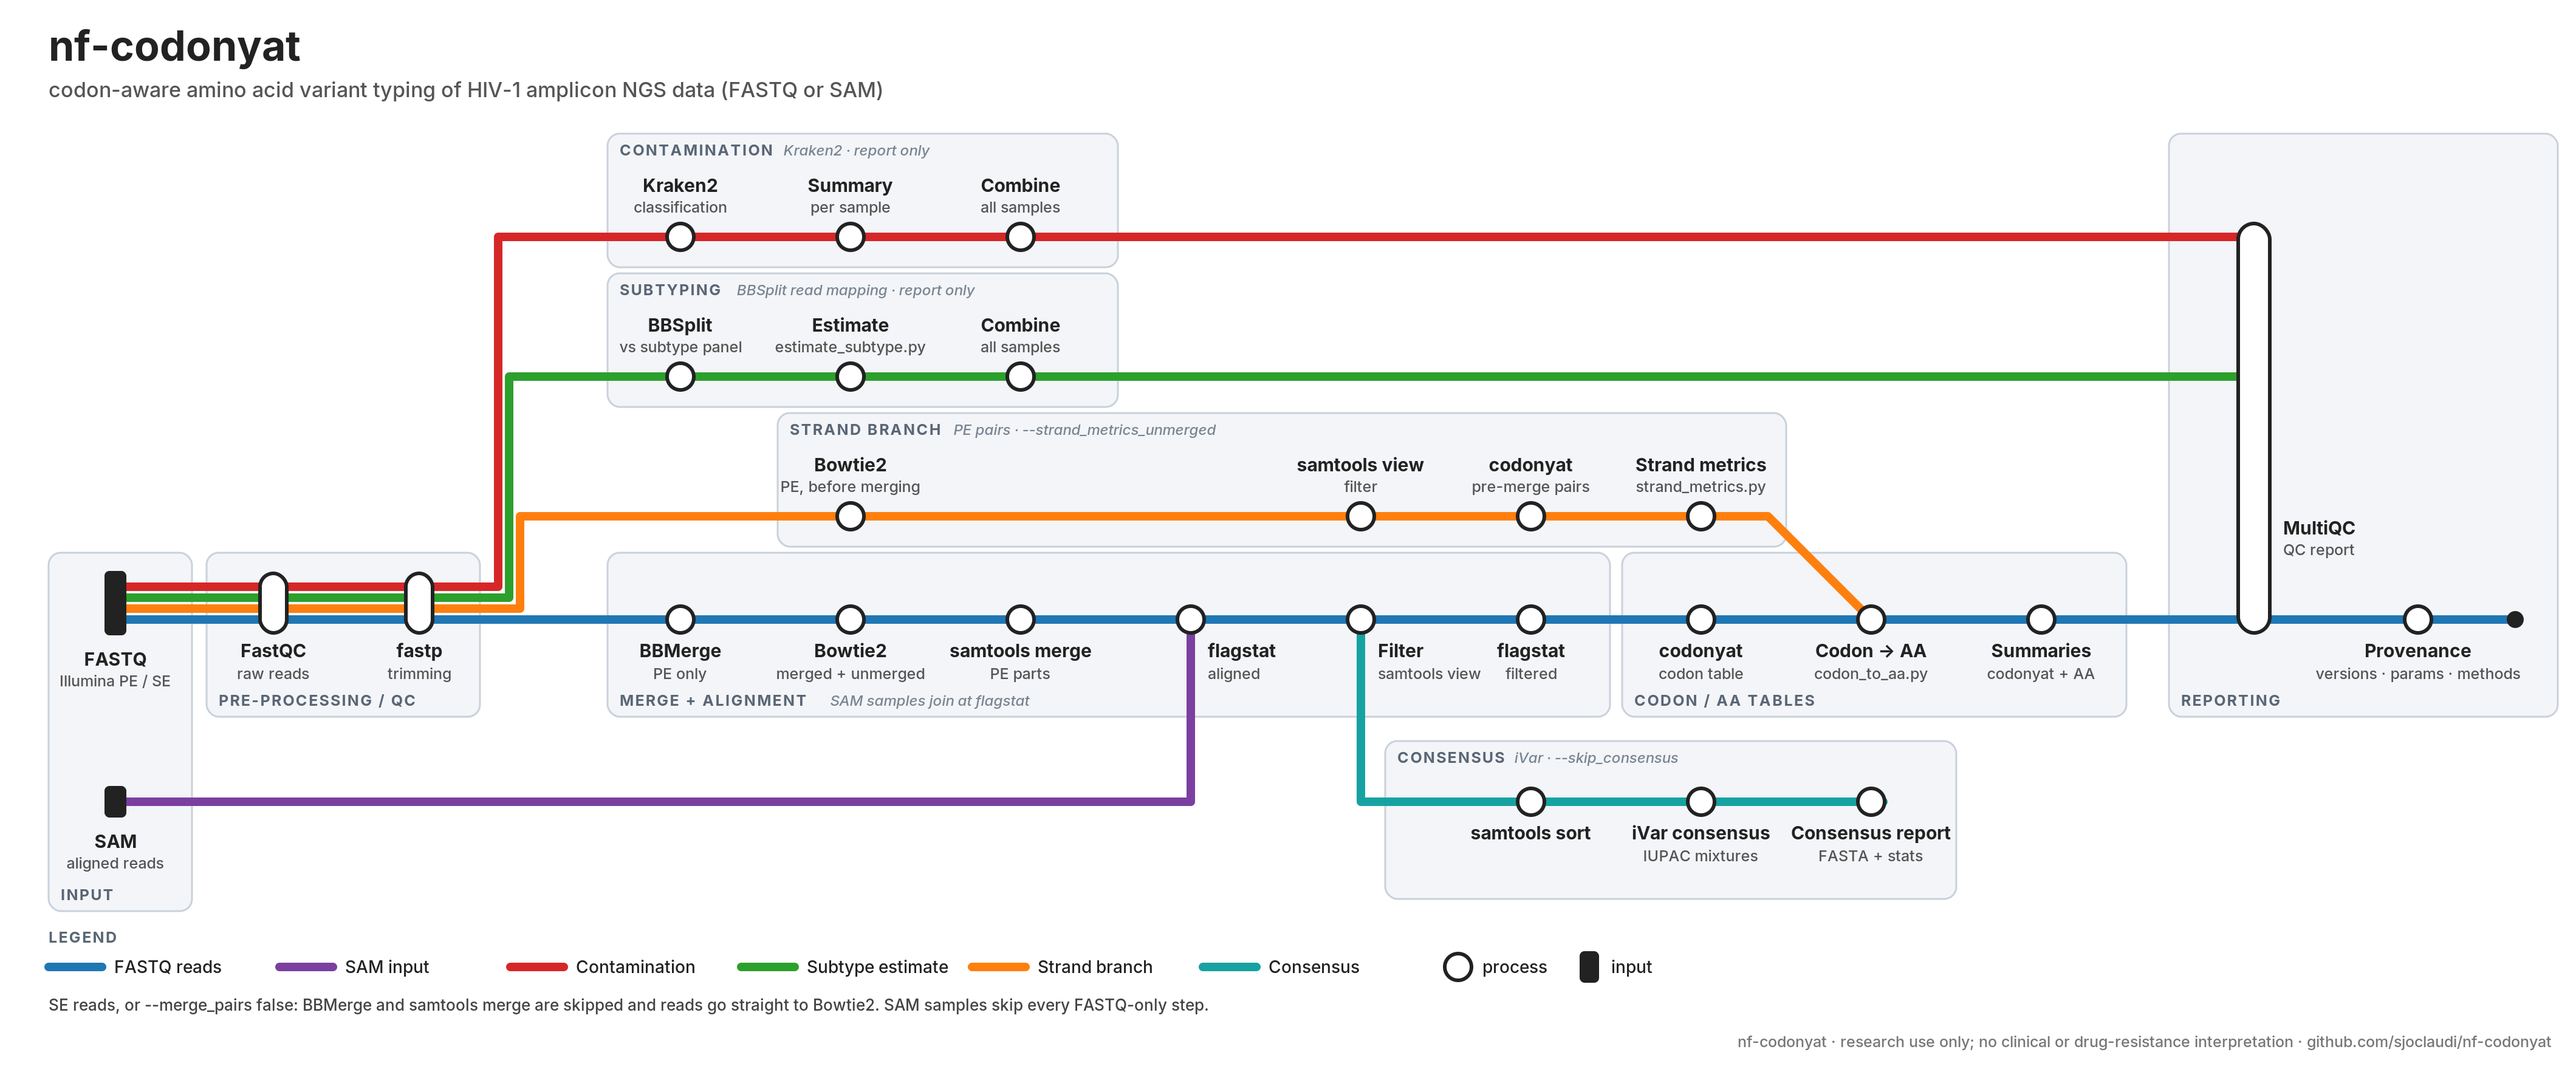
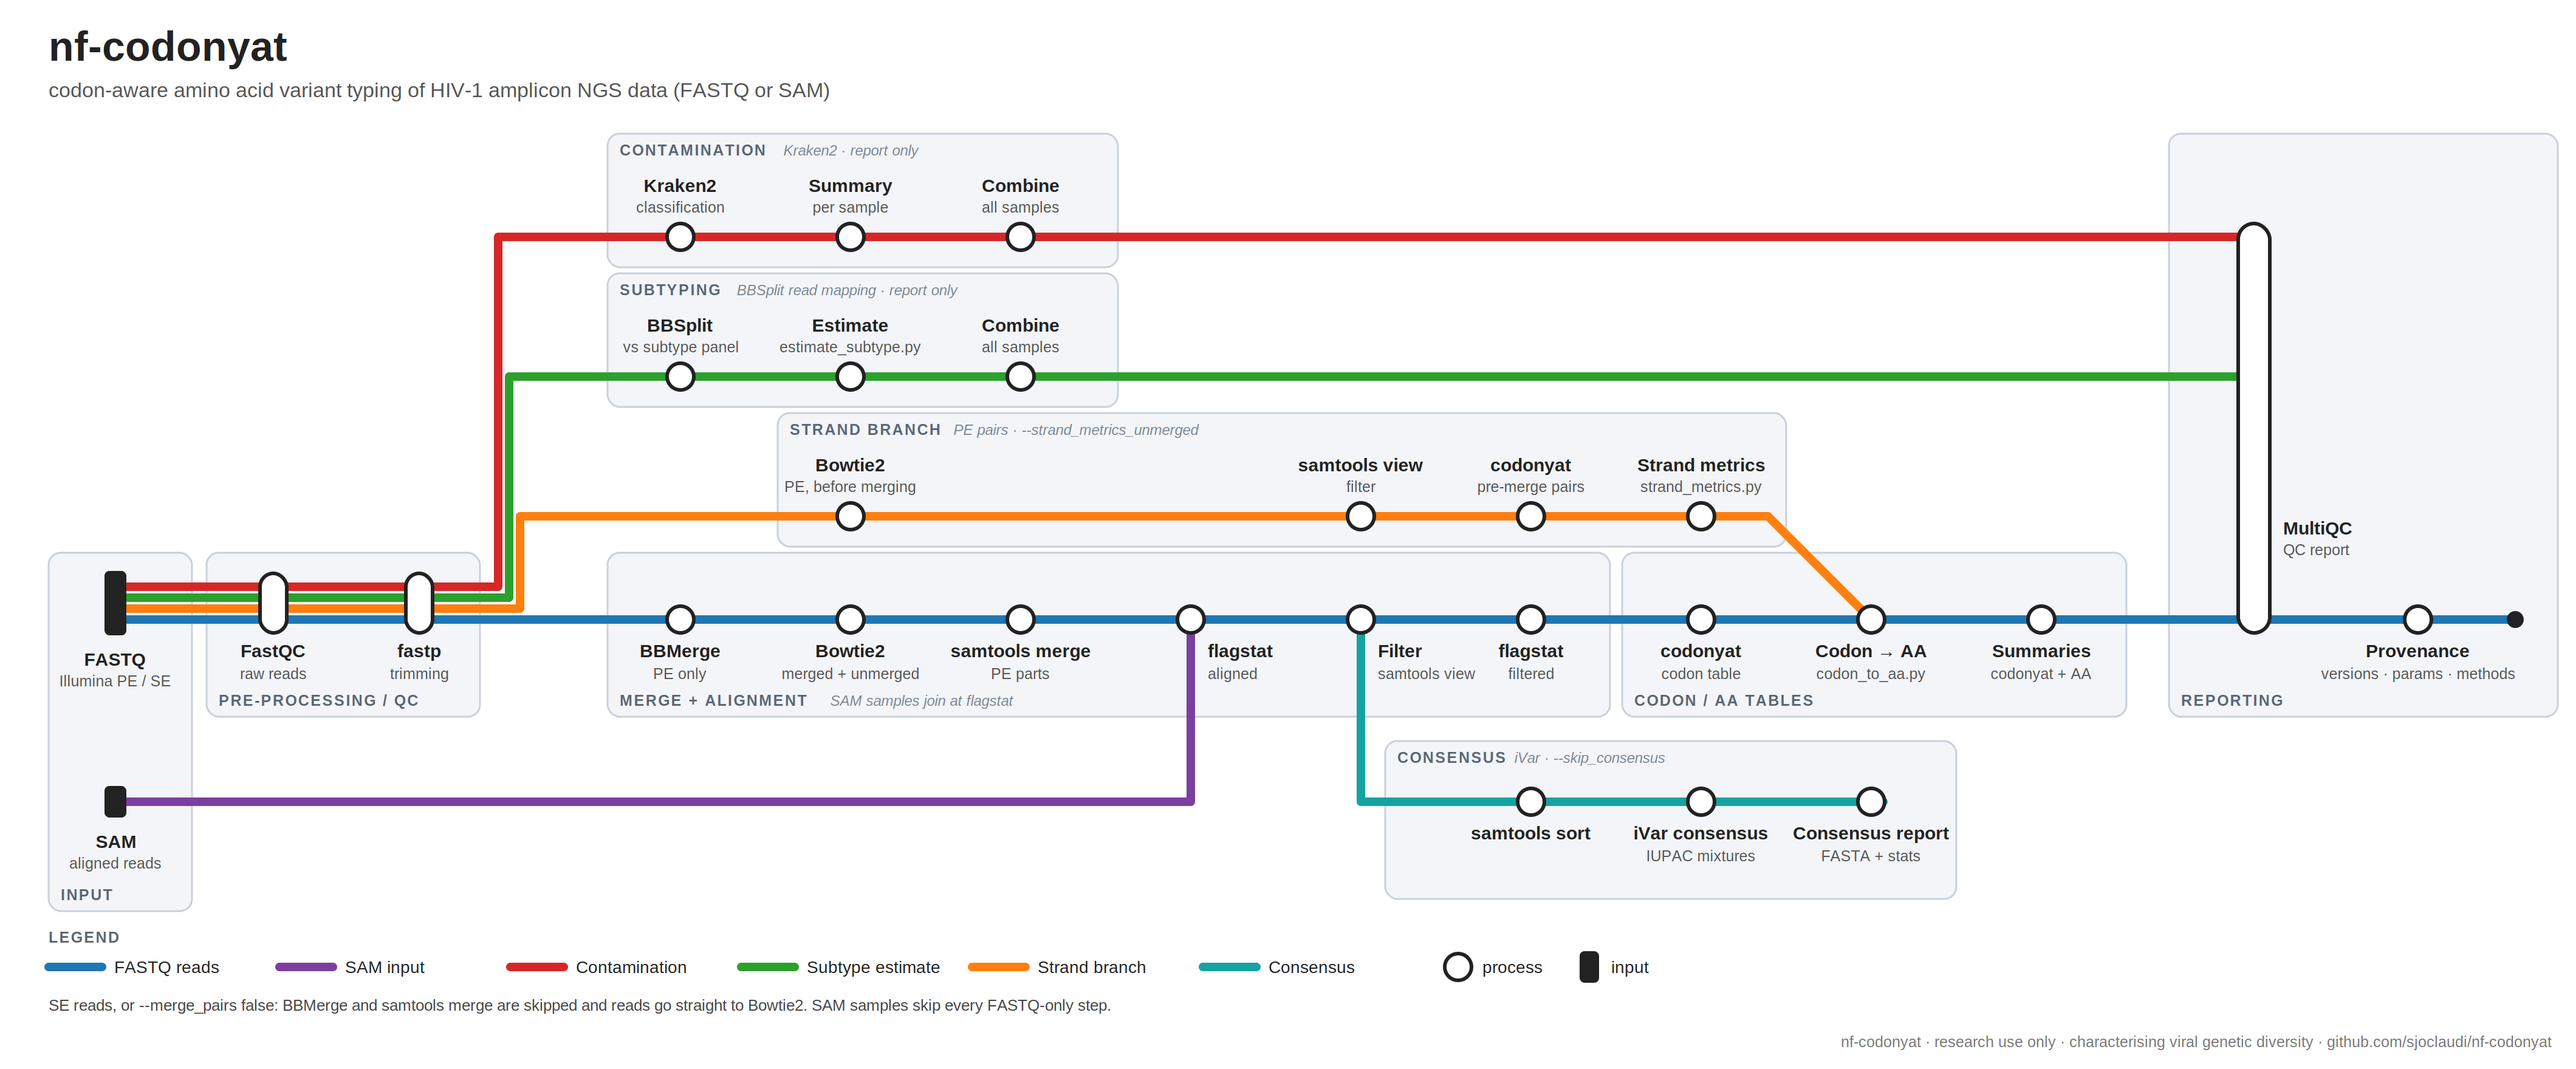
docs: reword remaining docs to research use only (viral genetic diversity) (#10)
Remove drug-resistance, clinical, diagnostic and treatment claims from
the manuscript, usage/output docs, README and metro-map caption. Frame
the pipeline as research software for characterising codon and amino-acid
variant frequencies. Technical methods and results are unchanged.

diff --git a/docs/images/make_metro_map.py b/docs/images/make_metro_map.py
@@ -154,7 +154,7 @@ add(f'<rect x="{lx + 1260}" y="{ly - 7}" width="16" height="26" rx="4" fill="#22
 text(lx + 1286, ly + 11, "input", 14, "start")
 text(lx, ly + 42, "SE reads, or --merge_pairs false: BBMerge and samtools merge are skipped and reads go straight to Bowtie2. "
      "SAM samples skip every FASTQ-only step.", 13, "start", fill="#444")
-text(W - 20, H - 18, "nf-codonyat · research use only; no clinical or drug-resistance interpretation · github.com/sjoclaudi/nf-codonyat",
+text(W - 20, H - 18, "nf-codonyat · research use only · characterising viral genetic diversity · github.com/sjoclaudi/nf-codonyat",
      12.5, "end", fill="#777")
 add("</svg>")
 open(sys.argv[1], "w").write("\n".join(out) + "\n")

diff --git a/docs/nf-codonyat.rst b/docs/nf-codonyat.rst
@@ -19,7 +19,7 @@ nf-codonyat: a Nextflow pipeline for codon-aware amino acid variant typing from 
 
 .. note::
 
-   **Intended use.** nf-codonyat is research software for HIV-1 only. Its outputs (QC, contamination report, subtype estimate, consensus and codon/amino-acid frequency tables) are descriptive. It does not perform drug-resistance interpretation and is not intended for diagnostic or patient-care use.
+   **Intended use.** nf-codonyat is research software for characterising viral genetic diversity (codon and amino-acid variant frequencies) in HIV-1. Its outputs (QC, contamination report, subtype estimate, consensus and codon/amino-acid frequency tables) are descriptive and for research use only.
 
    **Draft status.** Items marked **TODO** need information that is not in the repository or in the test runs described here (author list, affiliations, benchmarks, data provenance, some citations). All numbers in Section 3 come from the bundled test data and the commands listed there.
 
@@ -242,12 +242,12 @@ The FASTQ path uses widely used tools (FastQC, fastp, bowtie2, samtools, MultiQC
 
 The default strand-ratio window of 0.316–3.162 (10-fold asymmetry) mirrors the defaults of the earlier Perl implementation that codonyat replaces. Users working with other viral systems may need to adjust these thresholds; nf-codonyat exposes them as parameters. In codonyat 1.0.1 the ratio and entropy thresholds are computed but do not filter the reported rows (Section 2.6).
 
-**Limitations and future options.** - **Primer clipping** is not performed. Bases under primer-binding sites reflect the primer rather than the template, so variants in primer regions should be interpreted with care. Primer clipping (for example with ``ivar trim`` or ``samtools ampliconclip`` and a primer BED file) is a future option. - **Variant effect prediction and interpretation** beyond codon translation are out of scope. nf-codonyat does not perform drug-resistance interpretation (for example Stanford HIVdb) and gives no clinical output. - **Haplotype reconstruction** is out of scope. A consensus sequence is produced with iVar (Grubaugh et al., 2019) at a 50% frequency threshold and 100x minimum depth (``--consensus_threshold``, ``--consensus_min_depth``); it is a descriptive output only. - Only one protein is analysed per run (``--protein``). - Only the local executor and the docker and conda profiles have been tested.
+**Limitations and future options.** - **Primer clipping** is not performed. Bases under primer-binding sites reflect the primer rather than the template, so variants in primer regions should be interpreted with care. Primer clipping (for example with ``ivar trim`` or ``samtools ampliconclip`` and a primer BED file) is a future option. - **Variant effect prediction and interpretation** beyond codon translation are out of scope. Outputs are descriptive codon and amino-acid frequency tables for research use only. - **Haplotype reconstruction** is out of scope. A consensus sequence is produced with iVar (Grubaugh et al., 2019) at a 50% frequency threshold and 100x minimum depth (``--consensus_threshold``, ``--consensus_min_depth``); it is a descriptive output only. - Only one protein is analysed per run (``--protein``). - Only the local executor and the docker and conda profiles have been tested.
 
 5. Conclusion
 -------------
 
-nf-codonyat brings the codon-aware variant typing of the codonyat Python package into a Nextflow pipeline that accepts raw FASTQ reads or SAM alignments. It applies a common alignment filter, produces per-sample and combined codon tables with a MultiQC report, and is tested with nf-test under Docker and Conda. It is freely available under the MIT licence.
+nf-codonyat brings the codon-aware variant typing of the codonyat Python package into a Nextflow pipeline that accepts raw FASTQ reads or SAM alignments. It applies a common alignment filter, produces per-sample and combined codon tables with a MultiQC report, and is tested with nf-test under Docker and Conda. It is research software for characterising viral genetic diversity (codon and amino-acid variant frequencies) and is freely available under the MIT licence.
 
 Future development may include primer clipping, multi-protein analysis per run, and validation on larger datasets (TODO).
 

diff --git a/docs/nf-codonyat.md b/docs/nf-codonyat.md
@@ -7,7 +7,7 @@ TODO: affiliations
 
 **Keywords:** viral genomics, codon-aware variant calling, Nextflow, amplicon sequencing, HIV-1, intra-host diversity, research software
 
-> **Intended use.** nf-codonyat is research software for HIV-1 only. Its outputs (QC, contamination report, subtype estimate, consensus and codon/amino-acid frequency tables) are descriptive. It does not perform drug-resistance interpretation and is not intended for diagnostic or patient-care use.
+> **Intended use.** nf-codonyat is research software for characterising viral genetic diversity (codon and amino-acid variant frequencies) in HIV-1. Its outputs (QC, contamination report, subtype estimate, consensus and codon/amino-acid frequency tables) are descriptive and for research use only.
 >
 > **Draft status.** Items marked **TODO** need information that is not in the repository or in the test runs
 > described here (author list, affiliations, benchmarks, data provenance, some citations). All numbers in
@@ -216,14 +216,14 @@ The default strand-ratio window of 0.316–3.162 (10-fold asymmetry) mirrors the
 
 **Limitations and future options.**
 - **Primer clipping** is not performed. Bases under primer-binding sites reflect the primer rather than the template, so variants in primer regions should be interpreted with care. Primer clipping (for example with `ivar trim` or `samtools ampliconclip` and a primer BED file) is a future option.
-- **Variant effect prediction and interpretation** beyond codon translation are out of scope. nf-codonyat does not perform drug-resistance interpretation (for example Stanford HIVdb) and gives no clinical output.
+- **Variant effect prediction and interpretation** beyond codon translation are out of scope. Outputs are descriptive codon and amino-acid frequency tables for research use only.
 - **Haplotype reconstruction** is out of scope. A consensus sequence is produced with iVar (Grubaugh et al., 2019) at a 50% frequency threshold and 100x minimum depth (`--consensus_threshold`, `--consensus_min_depth`); it is a descriptive output only.
 - Only one protein is analysed per run (`--protein`).
 - Only the local executor and the docker and conda profiles have been tested.
 
 ## 5. Conclusion
 
-nf-codonyat brings the codon-aware variant typing of the codonyat Python package into a Nextflow pipeline that accepts raw FASTQ reads or SAM alignments. It applies a common alignment filter, produces per-sample and combined codon tables with a MultiQC report, and is tested with nf-test under Docker and Conda. It is freely available under the MIT licence.
+nf-codonyat brings the codon-aware variant typing of the codonyat Python package into a Nextflow pipeline that accepts raw FASTQ reads or SAM alignments. It applies a common alignment filter, produces per-sample and combined codon tables with a MultiQC report, and is tested with nf-test under Docker and Conda. It is research software for characterising viral genetic diversity (codon and amino-acid variant frequencies) and is freely available under the MIT licence.
 
 Future development may include primer clipping, multi-protein analysis per run, and validation on larger datasets (TODO).
 

diff --git a/docs/output.md b/docs/output.md
@@ -1,7 +1,7 @@
 # nf-codonyat — Output Description
 
-> Research use only. All tables are descriptive (counts, frequencies, coverage, QC). None of them
-> contains drug-resistance or clinical interpretation.
+> Research use only. The pipeline characterises viral genetic diversity (codon and amino-acid
+> variant frequencies). All tables are descriptive (counts, frequencies, coverage, QC).
 
 ## Directory Structure
 
@@ -117,8 +117,8 @@ v0.2.0 (below). With several proteins each protein's positions sit inside a `<Pr
 ## Opt-in stats (`samples/{sample}/{sample}.stats.tsv`)
 
 Published only with `--emit_stats`. Written by codonyat 1.3.0 (`--stats`). Research use only:
-Wilson 95% CI, strand-bias p-value, flags and diversity indices. No drug-resistance or clinical
-annotation. Default TSV/XML are unchanged whether this flag is on or off.
+Wilson 95% CI, strand-bias p-value, flags and diversity indices. Default TSV/XML are unchanged
+whether this flag is on or off.
 
 | Column | Description |
 |--------|-------------|
@@ -142,7 +142,7 @@ unchanged whether this flag is on or off.
 ## Amino-acid table (`variants/{sample}.aa_variants.tsv`)
 
 One row per protein position and observed amino acid. Codon frequencies that translate to the same amino
-acid are summed. No drug, resistance or clinical annotation.
+acid are summed.
 
 | Column | Description |
 |--------|-------------|

diff --git a/docs/usage.md b/docs/usage.md
@@ -1,7 +1,7 @@
 # nf-codonyat — Usage
 
-> Research use only: descriptive QC, contamination, subtype-estimate, consensus and frequency outputs;
-> no drug-resistance or clinical interpretation.
+> Research use only: characterises viral genetic diversity (codon and amino-acid variant frequencies).
+> Descriptive QC, contamination, subtype-estimate, consensus and frequency outputs.
 
 ## Command Line
 
@@ -77,7 +77,7 @@ See each preset's `assets/presets/<name>/SOURCES.md`.
 | `--ratio_lower` | `0.316` | Lower strand ratio threshold |
 | `--entropy_threshold` | `0.0` | Minimum Shannon entropy per position |
 | `--emit_stats` | `false` | Publish `samples/<id>/<id>.stats.tsv` via `codonyat-runner --stats` (Wilson CI, strand-bias, diversity). Research use only. Off by default so TSV/XML stay unchanged. |
-| `--emit_aavf` | `false` | Publish `samples/<id>/<id>.aavf` via `codonyat-runner --aavf` (AAVF v1.0). Research use only; no drug-resistance or clinical annotation. Off by default so TSV/XML stay unchanged. |
+| `--emit_aavf` | `false` | Publish `samples/<id>/<id>.aavf` via `codonyat-runner --aavf` (AAVF v1.0). Research use only. Off by default so TSV/XML stay unchanged. |
 
 ## Read Processing and Filtering Parameters
 

diff --git a/README.md b/README.md
@@ -4,9 +4,9 @@
 
 Wraps the [`codonyat`](https://github.com/mnoguera/codonyat) Python package in a Nextflow pipeline for viral amplicon NGS analysis.
 
-> **Research use only.** The outputs are descriptive: QC, a contamination report, a read-mapping based
-> subtype estimate (bundled for HIV-1), a consensus sequence, and codon and amino-acid frequency tables. The pipeline does
-> no drug-resistance or clinical interpretation and is not a diagnostic tool.
+> **Research use only.** The pipeline characterises viral genetic diversity (codon and amino-acid variant
+> frequencies). The outputs are descriptive: QC, a contamination report, a read-mapping based subtype
+> estimate (bundled for HIV-1), a consensus sequence, and codon and amino-acid frequency tables.
 
 **What's new in v0.5.0:**
 - Multi-virus preset system (hiv1, sars-cov-2, influenza-a, rsv, hbv, hcv, custom)

diff --git a/CHANGELOG.md b/CHANGELOG.md
@@ -7,10 +7,11 @@
 
 ### Changed
 - Updated to codonyat **1.3.0** (opt-in Wilson CI / strand-bias / diversity stats and AAVF v1.0; default TSV/XML identical to 1.2.1)
+- Docs and README: research-use-only wording for characterising viral genetic diversity (codon and amino-acid variant frequencies)
 
 ### Notes
 - Default outputs are unchanged when the new flags are off
-- Research use only — no drug-resistance or clinical interpretation
+- Research use only — characterising viral genetic diversity (codon and amino-acid variant frequencies)
 
 ## [0.5.0] - 2026-10-16
 
